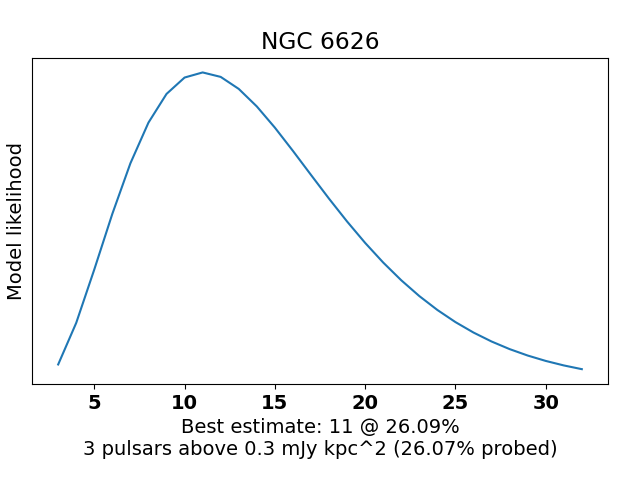
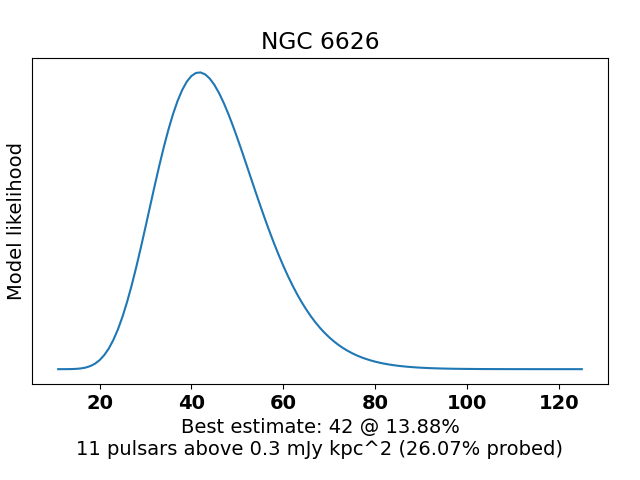
re-processed new data

diff --git a/readClusterData.py b/readClusterData.py
@@ -5,8 +5,8 @@ import matplotlib.pyplot as plt
 from matplotlib import rc
 from simulation import *
 
-MAKE_CLUSTER_PLOTS_FLAG = False #change this to regen plots
-SIMULATION_ROUNDS = 0 #number of rounds to run simulation
+MAKE_CLUSTER_PLOTS_FLAG = True #change this to regen plots
+SIMULATION_ROUNDS = 100 #number of rounds to run simulation
 SIMULATION_MU = -1.1
 SIMULATION_SIGMA = 0.9
 MIN_OBSERVATIONS = 2 #adjust to eliminate low-data clusters
@@ -332,6 +332,7 @@ for prop in properties.keys():
     plt.xticks(ticks=[-1, 0, coeff, 1], labels=["-1", "0", "ρ", "1"])
     plt.subplots_adjust(bottom=0.4)
     print(f"{prop}")
+    plt.savefig(f"{prop}_pdf.png")
     #plt.show()
     
 

diff --git a/LuminosityFunctions.py b/LuminosityFunctions.py
@@ -24,7 +24,7 @@ rc('font', **font)
 if __name__ == "__main__":
 
     # locate data file and read clusters into dictionary
-    DATAFILENAME = "Data03272024.csv"
+    DATAFILENAME = "Data09292024.csv"
     clusters = {}
 
     with open(DATAFILENAME, newline='') as datafile:

diff --git a/CumulativePlots.py b/CumulativePlots.py
@@ -22,7 +22,7 @@ font = {
 rc('font', **font)
 
 # locate data file and read clusters into dictionary
-DATAFILENAME = "Data03272024.csv"
+DATAFILENAME = "Data09292024.csv"
 
 with open("firstpass.dat", "r") as firstpass:
     clusters = load(firstpass)
